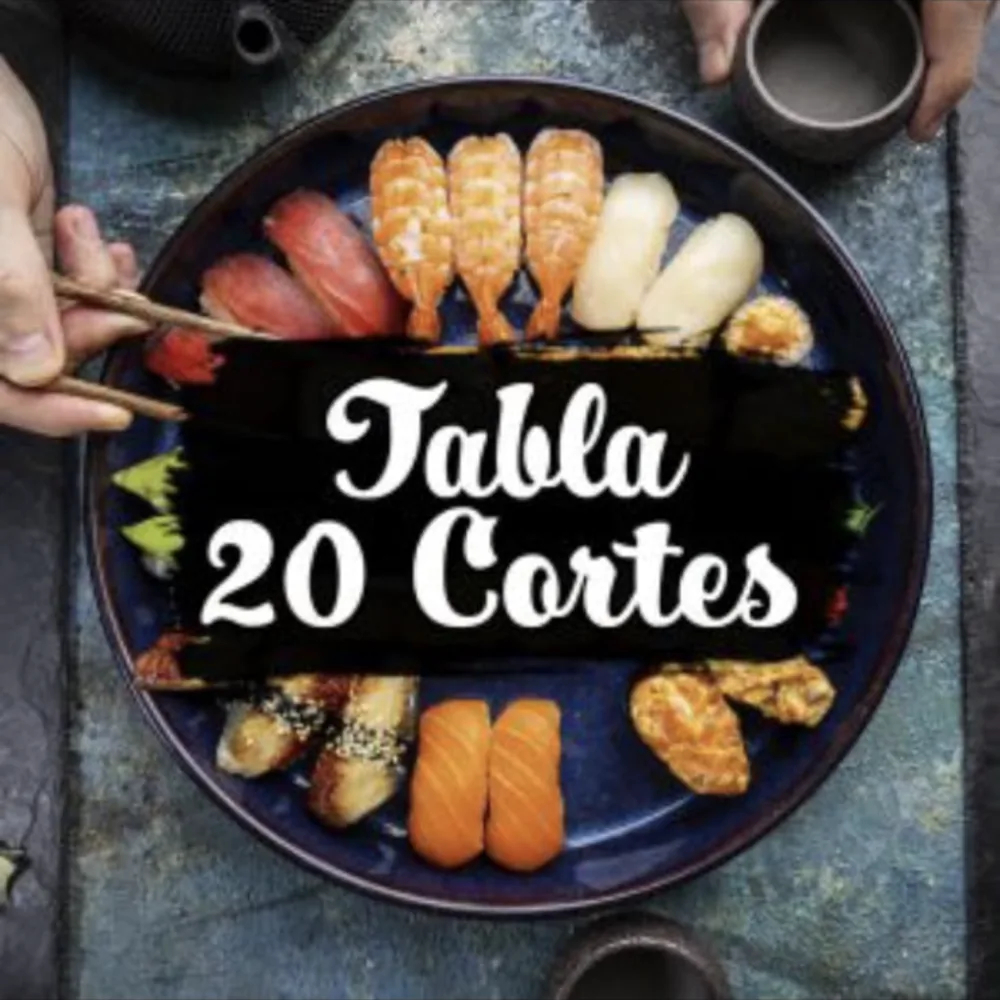
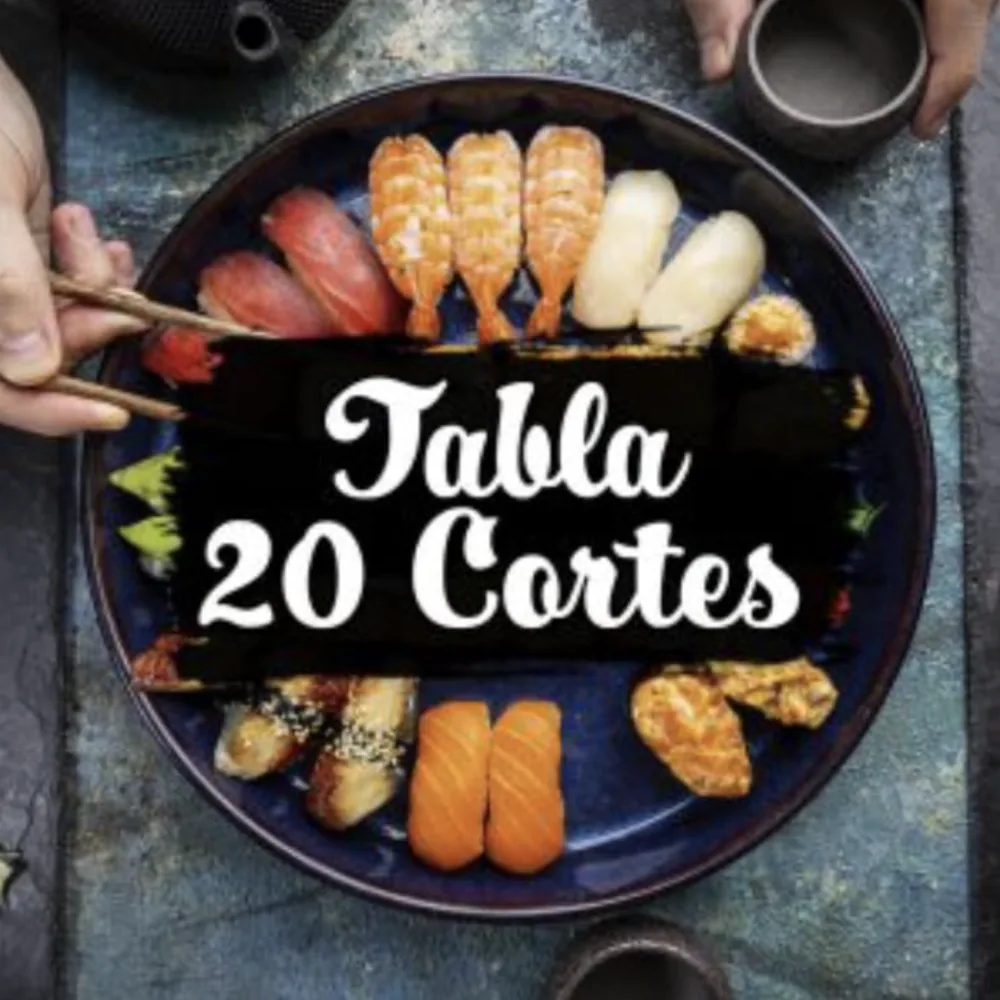
Tablas de 70, 80 y 100 cortes (27 tablas en total)
Agrega 70 mixtos sin kanikama, 70 y 80 calientes (con y sin kanikama, con
cortes calientes de champiñón, queso y pepino), 80 mixtos y 100 mixtos y
calientes, con y sin kanikama, con las fotos de 80 y 100 cortes. La de 100
mixtos se suma a la portada. Las fotos se recortan 4 px por borde para no
dejar la línea oscura de la captura.

Claude-Session: https://claude.ai/code/session_01CMLpZgwDTyKEdkYhqnQ2mG

diff --git a/carta.js b/carta.js
@@ -196,6 +196,42 @@ window.CARTA = {
               "precio": 22000,
               "foto": "img/carta/tabla-70-cortes.webp",
               "destacado": true
+            },
+            {
+              "id": "tabla-70-mixtos-sin-kanikama",
+              "nombre": "70 cortes mixtos sin kanikama",
+              "detalle": "20 cortes calientes: pollo, queso y cebollín\n20 cortes calientes: camarón, queso y aceituna\n10 cortes calientes: pollo, queso y palta\n10 cortes fríos envueltos en queso: pollo, queso y morrón\n10 cortes fríos envueltos en palta: champiñón, queso y pepino",
+              "precio": 23000,
+              "foto": "img/carta/tabla-70-cortes.webp"
+            },
+            {
+              "id": "tabla-80-mixtos",
+              "nombre": "80 cortes mixtos",
+              "detalle": "20 cortes calientes: pollo, queso y cebollín\n20 cortes calientes: camarón, queso y aceituna\n20 cortes calientes: kanikama, queso y cebollín\n10 cortes fríos envueltos en queso: pollo, queso y morrón\n10 cortes fríos envueltos en palta: champiñón, queso y pepino",
+              "precio": 24000,
+              "foto": "img/carta/tabla-80-cortes.webp"
+            },
+            {
+              "id": "tabla-80-mixtos-sin-kanikama",
+              "nombre": "80 cortes mixtos sin kanikama",
+              "detalle": "20 cortes calientes: pollo, queso y cebollín\n20 cortes calientes: camarón, queso y aceituna\n20 cortes calientes: pollo, queso y palta\n10 cortes fríos envueltos en queso: pollo, queso y morrón\n10 cortes fríos envueltos en palta: champiñón, queso y pepino",
+              "precio": 25000,
+              "foto": "img/carta/tabla-80-cortes.webp"
+            },
+            {
+              "id": "tabla-100-mixtos",
+              "nombre": "100 cortes mixtos",
+              "detalle": "20 cortes calientes: pollo, queso y cebollín\n20 cortes calientes: camarón, queso y aceituna\n20 cortes calientes: kanikama, queso y cebollín\n20 cortes fríos envueltos en queso: pollo, queso y morrón\n20 cortes fríos envueltos en palta: champiñón, queso y pepino",
+              "precio": 27000,
+              "foto": "img/carta/tabla-100-cortes.webp",
+              "destacado": true
+            },
+            {
+              "id": "tabla-100-mixtos-sin-kanikama",
+              "nombre": "100 cortes mixtos sin kanikama",
+              "detalle": "20 cortes calientes: pollo, queso y cebollín\n20 cortes calientes: camarón, queso y aceituna\n20 cortes calientes: pollo, queso y palta\n20 cortes fríos envueltos en queso: pollo, queso y morrón\n20 cortes fríos envueltos en palta: champiñón, queso y pepino",
+              "precio": 29000,
+              "foto": "img/carta/tabla-100-cortes.webp"
             }
           ]
         },
@@ -252,6 +288,48 @@ window.CARTA = {
               "detalle": "20 cortes calientes: pollo, queso y cebollín\n20 cortes calientes: camarón, queso y aceituna\n20 cortes calientes: pollo, queso y palta",
               "precio": 20000,
               "foto": "img/carta/tabla-60-cortes.webp"
+            },
+            {
+              "id": "tabla-70-calientes",
+              "nombre": "70 cortes calientes",
+              "detalle": "20 cortes calientes: pollo, queso y cebollín\n20 cortes calientes: camarón, queso y aceituna\n20 cortes calientes: kanikama, queso y cebollín\n10 cortes calientes: champiñón, queso y pepino",
+              "precio": 22000,
+              "foto": "img/carta/tabla-70-cortes.webp"
+            },
+            {
+              "id": "tabla-70-calientes-sin-kanikama",
+              "nombre": "70 cortes calientes sin kanikama",
+              "detalle": "20 cortes calientes: pollo, queso y cebollín\n20 cortes calientes: camarón, queso y aceituna\n20 cortes calientes: pollo, queso y palta\n10 cortes calientes: champiñón, queso y pepino",
+              "precio": 23000,
+              "foto": "img/carta/tabla-70-cortes.webp"
+            },
+            {
+              "id": "tabla-80-calientes",
+              "nombre": "80 cortes calientes",
+              "detalle": "20 cortes calientes: pollo, queso y cebollín\n20 cortes calientes: camarón, queso y aceituna\n20 cortes calientes: kanikama, queso y cebollín\n20 cortes calientes: champiñón, queso y pepino",
+              "precio": 24000,
+              "foto": "img/carta/tabla-80-cortes.webp"
+            },
+            {
+              "id": "tabla-80-calientes-sin-kanikama",
+              "nombre": "80 cortes calientes sin kanikama",
+              "detalle": "20 cortes calientes: pollo, queso y cebollín\n20 cortes calientes: camarón, queso y aceituna\n20 cortes calientes: pollo, queso y palta\n20 cortes calientes: champiñón, queso y pepino",
+              "precio": 25000,
+              "foto": "img/carta/tabla-80-cortes.webp"
+            },
+            {
+              "id": "tabla-100-calientes",
+              "nombre": "100 cortes calientes",
+              "detalle": "40 cortes calientes: pollo, queso y cebollín\n40 cortes calientes: camarón, queso y aceituna\n20 cortes calientes: kanikama, queso y cebollín",
+              "precio": 27000,
+              "foto": "img/carta/tabla-100-cortes.webp"
+            },
+            {
+              "id": "tabla-100-calientes-sin-kanikama",
+              "nombre": "100 cortes calientes sin kanikama",
+              "detalle": "40 cortes calientes: pollo, queso y cebollín\n40 cortes calientes: camarón, queso y aceituna\n20 cortes calientes: pollo, queso y palta",
+              "precio": 29000,
+              "foto": "img/carta/tabla-100-cortes.webp"
             }
           ]
         }
